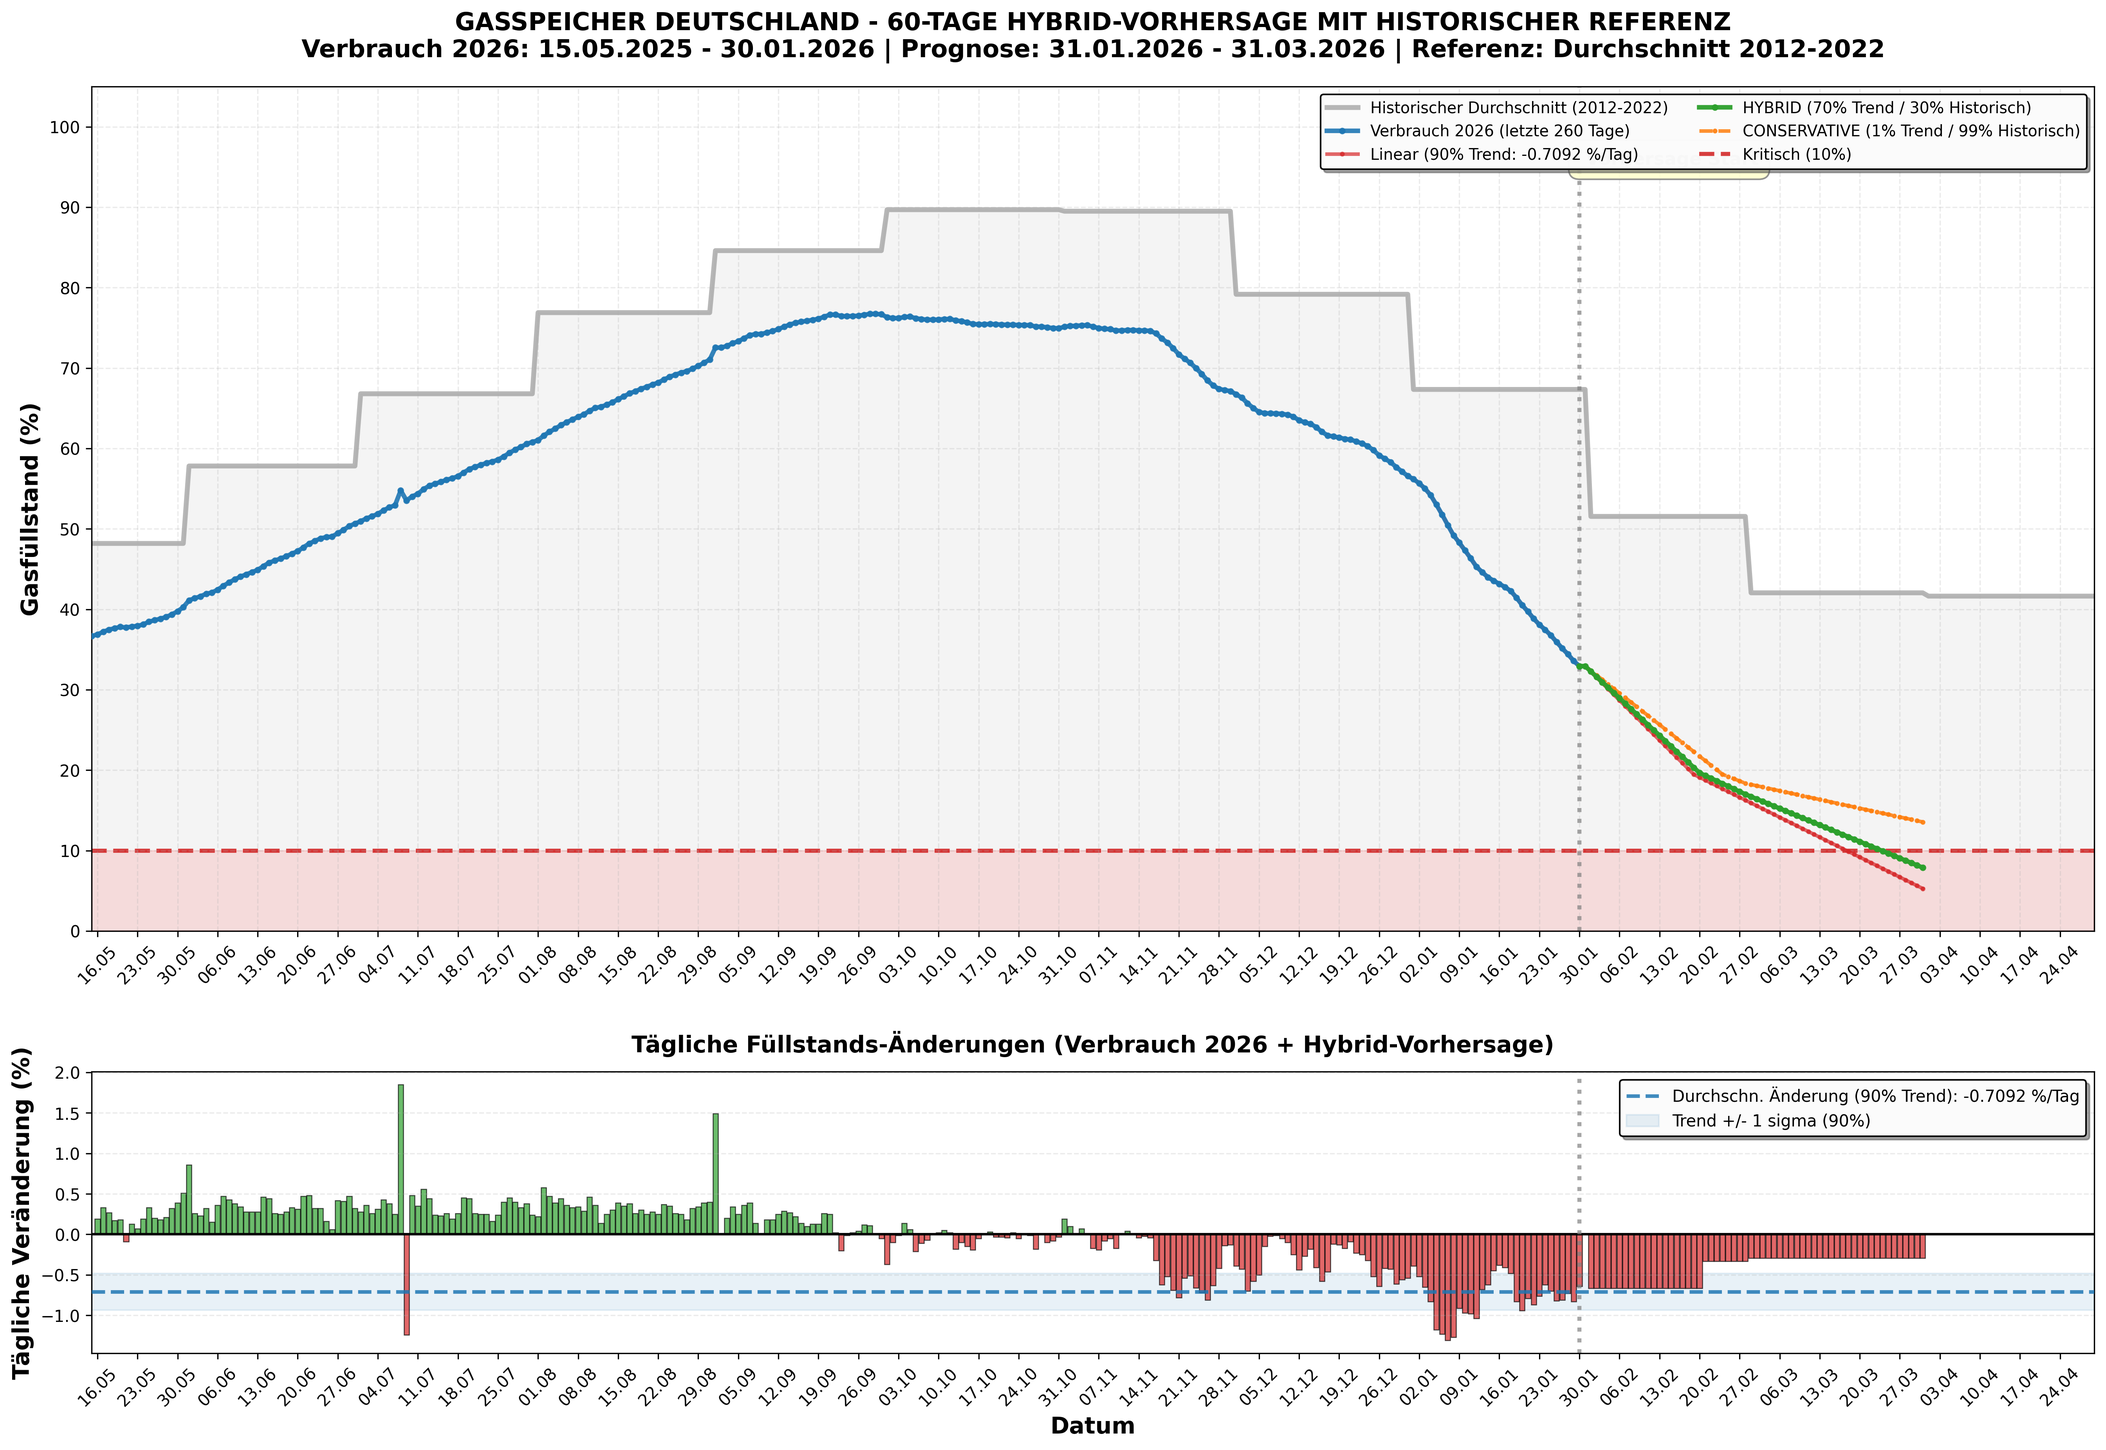
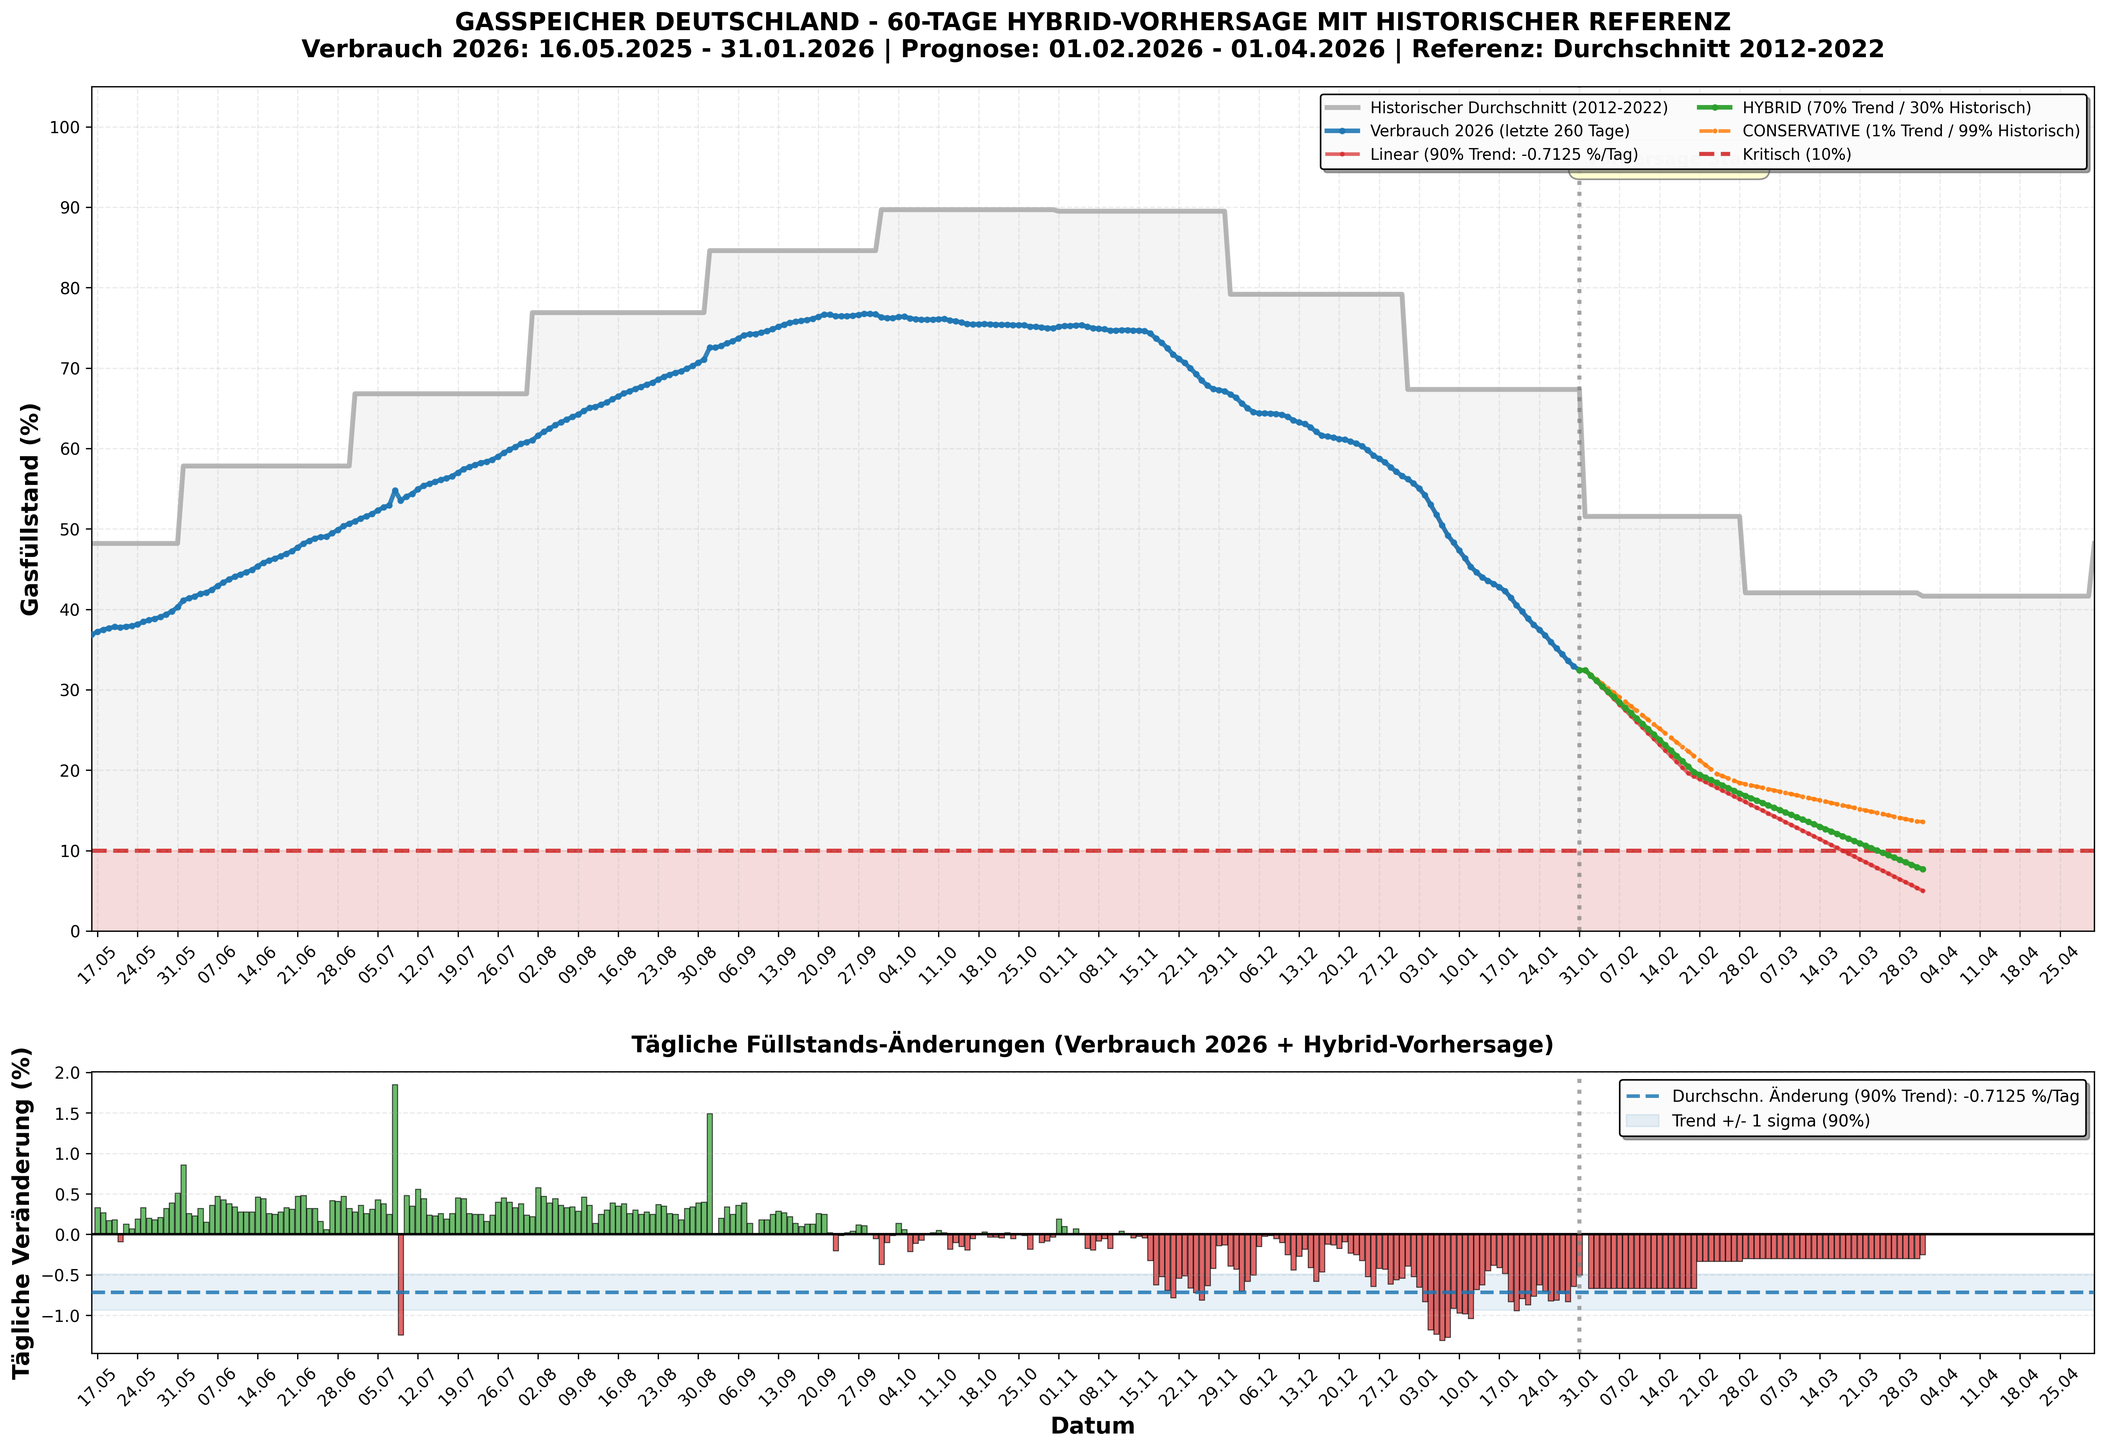
Update Gasspeicher-Report 2026-02-01 21:11

diff --git a/index.html b/index.html
@@ -3,10 +3,10 @@
 <head>
     <meta charset="UTF-8">
     <meta name="viewport" content="width=device-width, initial-scale=1.0">
-    <title>Energienotfall.de - Gasspeicher 32.9% | 30.01.2026</title>
+    <title>Energienotfall.de - Gasspeicher 32.4% | 31.01.2026</title>
 
     <!-- SEO Meta Tags -->
-    <meta name="description" content="Energienotfall.de: Erhöhte Aufmerksamkeit. Speicherstand unter Beobachtung. Füllstand 32.9%, Trend -0.71%/Tag. Prognose-Tiefpunkt: 7.9%. Privates Projekt · Keine offizielle Behördenseite">
+    <meta name="description" content="Energienotfall.de: Erhöhte Aufmerksamkeit. Speicherstand unter Beobachtung. Füllstand 32.4%, Trend -0.71%/Tag. Prognose-Tiefpunkt: 7.7%. Privates Projekt · Keine offizielle Behördenseite">
     <meta name="keywords" content="Gasspeicher, Deutschland, Füllstand, Gaspreis, Energiekrise, Gasversorgung, TTF, Erdgas, Speicherstand">
     <meta name="author" content="Energienotfall.de">
     <meta name="robots" content="index, follow">
@@ -14,15 +14,15 @@
     <!-- Open Graph (Facebook, LinkedIn) -->
     <meta property="og:type" content="website">
     <meta property="og:url" content="https://www.energienotfall.de/">
-    <meta property="og:title" content="Energienotfall.de - Gasspeicher 32.9%">
-    <meta property="og:description" content="Füllstand 32.9%, Trend -0.71%/Tag. Prognose-Tiefpunkt: 7.9% am 31.03.2026.">
+    <meta property="og:title" content="Energienotfall.de - Gasspeicher 32.4%">
+    <meta property="og:description" content="Füllstand 32.4%, Trend -0.71%/Tag. Prognose-Tiefpunkt: 7.7% am 01.04.2026.">
     <meta property="og:locale" content="de_DE">
     <meta property="og:site_name" content="Energienotfall.de">
 
     <!-- Twitter Card -->
     <meta name="twitter:card" content="summary_large_image">
-    <meta name="twitter:title" content="Energienotfall.de - Gasspeicher 32.9%">
-    <meta name="twitter:description" content="Gasspeicher 32.9%, Trend -0.71%/Tag. Tiefpunkt 7.9%.">
+    <meta name="twitter:title" content="Energienotfall.de - Gasspeicher 32.4%">
+    <meta name="twitter:description" content="Gasspeicher 32.4%, Trend -0.71%/Tag. Tiefpunkt 7.7%.">
 
     <!-- JSON-LD Structured Data -->
     <script type="application/ld+json">
@@ -33,7 +33,7 @@
         "description": "Alternative Ansicht der aktuellen Gasspeicher-Daten für Deutschland",
         "url": "https://www.energienotfall.de",
         "inLanguage": "de-DE",
-        "dateModified": "2026-01-30",
+        "dateModified": "2026-01-31",
         "publisher": {
             "@type": "Organization",
             "name": "Energienotfall.de"
@@ -303,6 +303,101 @@
             border-top: 1px solid rgba(255,255,255,0.2);
         }
 
+        /* Fishbone Diagram */
+        .fishbone-container {
+            background: rgba(255,255,255,0.05);
+            border-radius: 12px;
+            padding: 1.5rem;
+            margin-bottom: 1.5rem;
+            overflow-x: auto;
+        }
+        .fishbone {
+            display: flex;
+            align-items: center;
+            justify-content: center;
+            min-width: 900px;
+            padding: 1rem 0;
+        }
+        .fishbone-spine {
+            display: flex;
+            align-items: center;
+            position: relative;
+        }
+        .fishbone-spine::before {
+            content: '';
+            position: absolute;
+            top: 50%;
+            left: 0;
+            right: 80px;
+            height: 4px;
+            background: linear-gradient(90deg, #3498db, #e74c3c);
+            transform: translateY(-50%);
+        }
+        .fishbone-head {
+            width: 80px;
+            height: 80px;
+            background: linear-gradient(135deg, #e74c3c, #c0392b);
+            border-radius: 50%;
+            display: flex;
+            align-items: center;
+            justify-content: center;
+            font-size: 0.7rem;
+            font-weight: bold;
+            text-align: center;
+            color: white;
+            z-index: 2;
+            box-shadow: 0 0 20px rgba(231, 76, 60, 0.5);
+        }
+        .fishbone-categories {
+            display: flex;
+            flex-direction: column;
+            gap: 0.5rem;
+            margin-right: 2rem;
+        }
+        .fishbone-row {
+            display: flex;
+            gap: 1rem;
+        }
+        .fishbone-branch {
+            position: relative;
+            padding: 0.75rem 1rem;
+            background: rgba(255,255,255,0.08);
+            border-radius: 8px;
+            min-width: 160px;
+            border-left: 3px solid;
+        }
+        .fishbone-branch.weather { border-color: #3498db; }
+        .fishbone-branch.demand { border-color: #e74c3c; }
+        .fishbone-branch.supply { border-color: #27ae60; }
+        .fishbone-branch.policy { border-color: #9b59b6; }
+        .fishbone-branch.infra { border-color: #f39c12; }
+        .branch-title {
+            font-weight: bold;
+            font-size: 0.85rem;
+            margin-bottom: 0.5rem;
+            display: flex;
+            align-items: center;
+            gap: 0.5rem;
+        }
+        .branch-items {
+            font-size: 0.75rem;
+            color: #aaa;
+            line-height: 1.4;
+        }
+        .branch-impact {
+            font-size: 0.7rem;
+            margin-top: 0.5rem;
+            padding-top: 0.5rem;
+            border-top: 1px solid rgba(255,255,255,0.1);
+            color: #888;
+        }
+        .impact-value {
+            font-weight: bold;
+        }
+        .impact-value.negative { color: #e74c3c; }
+        .impact-value.positive { color: #27ae60; }
+        .impact-value.variable { color: #f39c12; }
+
         /* Responsive */
         @media (max-width: 768px) {
             .header h1 {
@@ -326,7 +421,7 @@
     <div class="container">
         <div class="header">
             <h1>🔥 Der aktuelle Gasfüllstand in DE zeigt: </h1>
-            <div class="subtitle">Privates Projekt · Keine offizielle Behördenseite | Stand: 30.01.2026</div>
+            <div class="subtitle">Privates Projekt · Keine offizielle Behördenseite | Stand: 31.01.2026</div>
         </div>
 
         <!-- Signal Ampel -->
@@ -337,8 +432,8 @@
             <div class="signal-message" style="color: #f39c12; font-size: 1.3rem; font-weight: bold; margin-bottom: 0.5rem;">
                 Erhöhte Aufmerksamkeit. Speicherstand unter Beobachtung.
             </div>
-            <div style="font-size: 2.5rem; font-weight: bold;">32.9%</div>
-            <div style="color: #888;">Aktueller Füllstand (82.7 TWh)</div>
+            <div style="font-size: 2.5rem; font-weight: bold;">32.4%</div>
+            <div style="color: #888;">Aktueller Füllstand (81.5 TWh)</div>
         </div>
 
         <!-- Alert System -->
@@ -349,7 +444,7 @@
                 <div class="alert-icon">🔮</div>
                 <div class="alert-content">
                     <div class="alert-title">Kritische Prognose</div>
-                    <div class="alert-message">Vorhersage-Tiefpunkt bei 7.9% - Notfallmaßnahmen wahrscheinlich</div>
+                    <div class="alert-message">Vorhersage-Tiefpunkt bei 7.7% - Notfallmaßnahmen wahrscheinlich</div>
                 </div>
             </div>
             
@@ -357,7 +452,7 @@
                 <div class="alert-icon">📊</div>
                 <div class="alert-content">
                     <div class="alert-title">Füllstand unter Beobachtung</div>
-                    <div class="alert-message">Speicher bei 32.9% - unter Winterdurchschnitt</div>
+                    <div class="alert-message">Speicher bei 32.4% - unter Winterdurchschnitt</div>
                 </div>
             </div>
             
@@ -373,7 +468,7 @@
                 <div class="alert-icon">⏰</div>
                 <div class="alert-content">
                     <div class="alert-title">Reichweite beachten</div>
-                    <div class="alert-message">46 Tage bei aktuellem Verbrauch</div>
+                    <div class="alert-message">45 Tage bei aktuellem Verbrauch</div>
                 </div>
             </div>
             
@@ -392,14 +487,14 @@
                     <div class="value">46</div>
                     <div class="label">Tage Reichweite (aktuell)</div>
                     <div style="font-size: 0.75rem; color: #888; margin-top: 0.25rem;">
-                        ❄ Kälte: 31d | 🌡 Mild: 66d
+                        ❄ Kälte: 30d | 🌡 Mild: 65d
                     </div>
                 </div>
                 <div class="metric danger">
-                    <div class="value">7.9%</div>
+                    <div class="value">7.7%</div>
                     <div class="label">Prognose-Tiefpunkt</div>
                     <div style="font-size: 0.75rem; color: #888; margin-top: 0.25rem;">
-                        31.03.2026
+                        01.04.2026
                     </div>
                 </div>
             </div>
@@ -410,23 +505,23 @@
                 <div class="import-flow">
                     <div class="import-item">
                         <span class="country">🇳🇴 Norwegen</span>
-                        <span class="value">1,368</span>
+                        <span class="value">1,348</span>
                     </div>
                     <div class="import-item">
                         <span class="country">🇳🇱 Niederlande</span>
-                        <span class="value">673</span>
+                        <span class="value">799</span>
                     </div>
                     <div class="import-item">
                         <span class="country">🇧🇪 Belgien</span>
-                        <span class="value">656</span>
+                        <span class="value">617</span>
                     </div>
                     <div class="import-item">
                         <span class="country">🚢 LNG</span>
-                        <span class="value">379</span>
+                        <span class="value">333</span>
                     </div>
                     <div class="import-item import-total">
                         <span class="country"><strong>Σ Gesamt</strong></span>
-                        <span class="value">3,076</span>
+                        <span class="value">3,097</span>
                     </div>
                 </div>
             </div>
@@ -436,15 +531,15 @@
                 <h2>❄ Wetter-Szenarien (30 Tage)</h2>
                 <div class="scenario-row">
                     <span class="scenario-label">Kältewelle ❄</span>
-                    <span class="scenario-value scenario-cold">10.1%</span>
+                    <span class="scenario-value scenario-cold">10.0%</span>
                 </div>
                 <div class="scenario-row">
                     <span class="scenario-label">Normal 🌤</span>
-                    <span class="scenario-value scenario-normal">15.6%</span>
+                    <span class="scenario-value scenario-normal">15.3%</span>
                 </div>
                 <div class="scenario-row">
                     <span class="scenario-label">Milde Witterung 🌡</span>
-                    <span class="scenario-value scenario-mild">18.8%</span>
+                    <span class="scenario-value scenario-mild">18.7%</span>
                 </div>
                 <div style="margin-top: 1rem; font-size: 0.8rem; color: #666;">
                     Kältewelle: +50% Verbrauch | Mild: -30% Verbrauch
@@ -473,6 +568,82 @@
                 </div>
                 <div style="text-align: center; margin-top: 0.5rem; font-size: 0.7rem; color: #666;">
                     Quellen: Gas (TTF) | Strom (EPEX Spot (energy-charts.info))
+                </div>
+            </div>
+        </div>
+
+        <!-- Fishbone Diagram: Einflussfaktoren -->
+        <div class="fishbone-container">
+            <h2 style="text-align: center; margin-bottom: 1.5rem;">🐟 Einflussfaktoren auf den Speicherstand</h2>
+            <div class="fishbone">
+                <div class="fishbone-spine">
+                    <div class="fishbone-categories">
+                        <!-- Obere Reihe -->
+                        <div class="fishbone-row">
+                            <div class="fishbone-branch weather">
+                                <div class="branch-title">🌡 WETTER</div>
+                                <div class="branch-items">
+                                    • Außentemperatur<br>
+                                    • Frost-Ereignisse<br>
+                                    • Heizgradtage
+                                </div>
+                                <div class="branch-impact">
+                                    Impact: <span class="impact-value variable">±30-50%</span> Verbrauch
+                                </div>
+                            </div>
+                            <div class="fishbone-branch demand">
+                                <div class="branch-title">🏭 VERBRAUCH</div>
+                                <div class="branch-items">
+                                    • Industrie-Produktion<br>
+                                    • Wohnheizung<br>
+                                    • Gaskraftwerke<br>
+                                    • Rechenzentren
+                                </div>
+                                <div class="branch-impact">
+                                    Trend: <span class="impact-value negative">+15-20%</span> YoY
+                                </div>
+                            </div>
+                            <div class="fishbone-branch supply">
+                                <div class="branch-title">🚢 IMPORT</div>
+                                <div class="branch-items">
+                                    • Norwegen Pipeline<br>
+                                    • NL/BE Transit<br>
+                                    • LNG-Terminals
+                                </div>
+                                <div class="branch-impact">
+                                    Risiko: <span class="impact-value negative">-45%</span> wenn NO weg
+                                </div>
+                            </div>
+                        </div>
+                        <!-- Untere Reihe -->
+                        <div class="fishbone-row">
+                            <div class="fishbone-branch policy">
+                                <div class="branch-title">⚖ POLITIK</div>
+                                <div class="branch-items">
+                                    • Sanktionen (RU-Gas)<br>
+                                    • EU-Preisdeckel<br>
+                                    • Speicher-Vorgaben
+                                </div>
+                                <div class="branch-impact">
+                                    Impact: <span class="impact-value variable">Langfristig</span>
+                                </div>
+                            </div>
+                            <div class="fishbone-branch infra">
+                                <div class="branch-title">🔧 INFRASTRUKTUR</div>
+                                <div class="branch-items">
+                                    • Kapazität: 251 TWh<br>
+                                    • Pipeline-Netz<br>
+                                    • Verdichter
+                                </div>
+                                <div class="branch-impact">
+                                    Limit: <span class="impact-value">Physikalisch</span>
+                                </div>
+                            </div>
+                        </div>
+                    </div>
+                    <div class="fishbone-head">
+                        SPEICHER<br>STAND
+                    </div>
                 </div>
             </div>
         </div>
